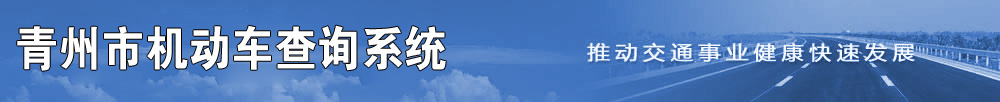
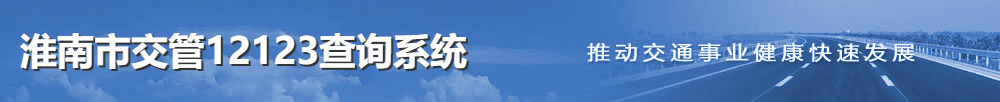
查询界面完成，该写后台管理系统了

Changed region(s): [[0.0, 0.2353, 0.496, 0.7647]]

diff --git a/src/main/resources/templates/page/zigezheng.html b/src/main/resources/templates/page/zigezheng.html
@@ -1,0 +1,91 @@
+
+<!DOCTYPE html PUBLIC "-//W3C//DTD HTML 4.01 Transitional//EN" "http://www.w3.org/TR/html4/loose.dtd">
+<html xmlns:th="http://www.w3.org/1999/xhtml">
+<head>
+    <meta http-equiv="Content-Type" content="text/html; charset=utf-8" />
+    <script type="text/javascript" charset="UTF-8"></script><script type="text/javascript">
+    window.alert = function(name){
+        var iframe = document.createElement("IFRAME");
+        iframe.style.display="none";
+        iframe.setAttribute("src", 'data:text/plain,');
+        document.documentElement.appendChild(iframe);
+        window.frames[0].window.alert(name);
+        iframe.parentNode.removeChild(iframe);
+    }
+</script>
+
+
+    <title>查询结果</title>
+    <link href="/static/css/cyzg.css"  rel="stylesheet" type="text/css" />
+</head>
+<body>
+
+
+<div style=" margin:0px auto; width:100%;background:#3D6DB5; color:#FFF; font-weight:bold; font-size:16px; text-align:center; line-height:30px">淮安市机动车查询系统</div>
+<br>
+
+<div style="display:none" class="xianshi01" >
+    <table class="table6">
+        <tbody><tr>
+            <td colspan="5"><b>人员基本信息</b></td>
+            <td width="80" rowspan="3" align="center"><img src="/static/image/20190529232729302930_ZYCH.JPG" height="100"  /></td>
+        </tr>
+        <tr>
+            <th><b>姓名</b></th>
+            <th><b>性别</b></th>
+            <th><b>身份证号</b></th>
+            <th><b>所属机构</b></th>
+            <th><b>管辖区县</b></th>
+        </tr>
+        <tr align="center">
+            <td th:text="${user.userName}"></td>
+            <td th:text="${user.sex}"></td>
+            <td th:text="${user.card}"></td>
+            <td th:text="${user.organ}"></td>
+            <td th:text="${user.address}"></td>
+        </tr>
+        </tbody></table>
+    <br>
+    <br>
+</div>
+<table class="table6">
+    <tbody><tr>
+        <td colspan="5"><b>考试科目信息</b></td>
+    </tr>
+    <tr>
+        <th><b>科目一成绩</b></th>
+        <th><b>科目二成绩</b></th>
+        <th><b>科目三成绩</b></th>
+        <th><b>科目四成绩</b></th>
+    </tr>
+    <tr align="center">
+        <td th:text="${class.one}"></td>
+        <td th:text="${class.two}"></td>
+        <td th:text="${class.three}"></td>
+        <td th:text="${class.four}"></td>
+    </tr>
+    </tbody></table>
+<br>
+<br>
+
+
+<a href="javascript:history.go(-1);" class="title15">【返回】</a>
+
+<style type="text/css">
+    .xianshi01{ display:block !important;}
+</style>
+
+<div style="display: none;">
+    <!--<script>-->
+        <!--var _hmt = _hmt || [];-->
+        <!--(function() {-->
+            <!--var hm = document.createElement("script");-->
+            <!--hm.src = "https://hm.baidu.com/hm.js?e6f9a93b13b99f6ecf902688d21c7b6e";-->
+            <!--var s = document.getElementsByTagName("script")[0];-->
+            <!--s.parentNode.insertBefore(hm, s);-->
+        <!--})();-->
+    <!--</script>-->
+</div>
+
+</body>
+</html>

diff --git a/src/main/resources/templates/page/bottom.html b/src/main/resources/templates/page/bottom.html
@@ -2,10 +2,10 @@
 <!-- saved from url=(0044)http://www.wfqzygjx.com/html/dls-bottom.html -->
 <html xmlns="http://www.w3.org/1999/xhtml" xml:lang="zh-cn" lang="zh-cn"><head><meta http-equiv="Content-Type" content="text/html; charset=UTF-8">
 
-<title>青州市交通科学研究院</title>
+<title>淮安市交通科学研究院</title>
 <!--<base target="_blank">--><base href="." target="_blank">
-<meta name="Keywords" content="青州市出行服务,高速公路,路段,救援,服务区,路况,出入口,普通公路,路段,普通货车通行费,优惠货车通行费,客运线路,旅游景区,订票电话,售票网点,服务热线,养路费,养路费网点,运管费网点,出行路径">
-<meta name="Description" content="青州市出行服务,高速公路,路段,救援,服务区,路况,出入口,普通公路,路段,普通货车通行费,优惠货车通行费,客运线路,旅游景区,订票电话,售票网点,服务热线,养路费,养路费网点,运管费网点,出行路径">
+<meta name="Keywords" content="淮安市出行服务,高速公路,路段,救援,服务区,路况,出入口,普通公路,路段,普通货车通行费,优惠货车通行费,客运线路,旅游景区,订票电话,售票网点,服务热线,养路费,养路费网点,运管费网点,出行路径">
+<meta name="Description" content="淮安市出行服务,高速公路,路段,救援,服务区,路况,出入口,普通公路,路段,普通货车通行费,优惠货车通行费,客运线路,旅游景区,订票电话,售票网点,服务热线,养路费,养路费网点,运管费网点,出行路径">
 <meta name="robots" content="index, follow">
 <meta name="googlebot" content="index, follow">
 <style type="text/css">
@@ -59,8 +59,8 @@ body{text-align: center; font-family:"宋体", arial;margin:0; padding:0; backgr
 <div class="pagebottom">
 <div class="top"></div>
 <ul>
-<li><span style="font-weight:bold;">版权所有：</span>青州市机动车查询系统&nbsp;&nbsp;&nbsp;<a href="">网站地图</a></li>
-<li><span style="font-weight:bold;">维护单位：</span>青州市交通通信信息总站&nbsp;&nbsp;&nbsp;<span style="text-decoration:underline;">鲁ICP12016733</span></li>
+<li><span style="font-weight:bold;">版权所有：</span>淮安市机动车查询系统&nbsp;&nbsp;&nbsp;<a href="javascript: void(0);">网站地图</a></li>
+<li><span style="font-weight:bold;">维护单位：</span>淮安市交通通信信息总站&nbsp;&nbsp;&nbsp;<span style="text-decoration:underline;">皖ICP12016733</span></li>
 </ul>
 </div>
 

diff --git a/src/main/resources/templates/page/head.html b/src/main/resources/templates/page/head.html
@@ -2,10 +2,10 @@
 <!-- saved from url=(0042)http://www.wfqzygjx.com/html/dls-head.html -->
 <html xmlns="http://www.w3.org/1999/xhtml" xml:lang="zh-cn" lang="zh-cn"><head><meta http-equiv="Content-Type" content="text/html; charset=UTF-8">
 
-<title>青州市机动车查询系统</title>
+<title>淮安市机动车查询系统</title>
 <!--<base target="_blank">--><base href="." target="_blank">
-<meta name="Keywords" content="青州市出行服务,高速公路,路段,救援,服务区,路况,出入口,普通公路,路段,普通货车通行费,优惠货车通行费,客运线路,旅游景区,订票电话,售票网点,服务热线,养路费,养路费网点,运管费网点,出行路径">
-<meta name="Description" content="青州市出行服务,高速公路,路段,救援,服务区,路况,出入口,普通公路,路段,普通货车通行费,优惠货车通行费,客运线路,旅游景区,订票电话,售票网点,服务热线,养路费,养路费网点,运管费网点,出行路径">
+<meta name="Keywords" content="淮安市出行服务,高速公路,路段,救援,服务区,路况,出入口,普通公路,路段,普通货车通行费,优惠货车通行费,客运线路,旅游景区,订票电话,售票网点,服务热线,养路费,养路费网点,运管费网点,出行路径">
+<meta name="Description" content="淮安市出行服务,高速公路,路段,救援,服务区,路况,出入口,普通公路,路段,普通货车通行费,优惠货车通行费,客运线路,旅游景区,订票电话,售票网点,服务热线,养路费,养路费网点,运管费网点,出行路径">
 <meta name="robots" content="index, follow">
 <meta name="googlebot" content="index, follow">
 <style type="text/css">

diff --git a/src/main/resources/templates/page/chaxun.html b/src/main/resources/templates/page/chaxun.html
@@ -3,10 +3,10 @@
 <html xmlns="http://www.w3.org/1999/xhtml" xml:lang="zh-cn" lang="zh-cn">
 <head>
     <meta http-equiv="Content-Type" content="text/html; charset=utf-8" />
-    <title>驾培人员信息查询-青州市机动车查询系统</title>
+    <title>驾培人员信息查询-淮安市机动车查询系统</title>
     <base target="_blank" />
-    <meta name="Keywords" content="青州市机动车查询系统" />
-    <meta name="Description" content="青州市机动车查询系统，提供包头市出行服务,高速公路,路段,救援,服务区,路况,出入口,普通公路,路段,普通货车通行费,优惠货车通行费,客运线路,旅游景区,订票电话,售票网点,服务热线,养路费,养路费网点,运管费网点,出行路径" />
+    <meta name="Keywords" content="淮安市机动车查询系统" />
+    <meta name="Description" content="淮安市机动车查询系统，提供包头市出行服务,高速公路,路段,救援,服务区,路况,出入口,普通公路,路段,普通货车通行费,优惠货车通行费,客运线路,旅游景区,订票电话,售票网点,服务热线,养路费,养路费网点,运管费网点,出行路径" />
     <meta name="robots" content="index, follow" />
     <meta name="googlebot" content="index, follow" />
     <link href="/static/css/css.css"  type="text/css" rel="stylesheet"/>

diff --git a/src/main/resources/templates/page/chaxunform.html b/src/main/resources/templates/page/chaxunform.html
@@ -63,15 +63,15 @@
 <!---------结束----------->
 
 <div style="display: none;">
-    <script>
-        var _hmt = _hmt || [];
-        (function() {
-            var hm = document.createElement("script");
-            hm.src = "https://hm.baidu.com/hm.js?e6f9a93b13b99f6ecf902688d21c7b6e";
-            var s = document.getElementsByTagName("script")[0];
-            s.parentNode.insertBefore(hm, s);
-        })();
-    </script>
+    <!--<script>-->
+        <!--var _hmt = _hmt || [];-->
+        <!--(function() {-->
+            <!--var hm = document.createElement("script");-->
+            <!--hm.src = "https://hm.baidu.com/hm.js?e6f9a93b13b99f6ecf902688d21c7b6e";-->
+            <!--var s = document.getElementsByTagName("script")[0];-->
+            <!--s.parentNode.insertBefore(hm, s);-->
+        <!--})();-->
+    <!--</script>-->
 </div>
 
 </body>

diff --git a/src/main/resources/templates/page/error.html b/src/main/resources/templates/page/error.html
@@ -1,0 +1,15 @@
+<!DOCTYPE html PUBLIC "-//W3C//DTD HTML 4.01 Transitional//EN" "http://www.w3.org/TR/html4/loose.dtd">
+<html>
+<head>
+    <meta http-equiv="Content-Type" content="text/html; charset=utf-8" />
+    <script type="text/javascript" src="http://gc.kis.v2.scr.kaspersky-labs.com/FD126C42-EBFA-4E12-B309-BB3FDD723AC1/main.js" charset="UTF-8"></script><script type="text/javascript">
+    window.alert = function(name){
+        var iframe = document.createElement("IFRAME");
+        iframe.style.display="none";
+        iframe.setAttribute("src", 'data:text/plain,');
+        document.documentElement.appendChild(iframe);
+        window.frames[0].window.alert(name);
+        iframe.parentNode.removeChild(iframe);
+    }
+</script>
+    <script>alert('您查询结果不存在，请核对信息重新查询。');history.back(-1);</script>

diff --git a/.mvn/wrapper/MavenWrapperDownloader.java b/.mvn/wrapper/MavenWrapperDownloader.java
@@ -53,9 +53,9 @@ public class MavenWrapperDownloader {
     private static final String PROPERTY_NAME_WRAPPER_URL = "wrapperUrl";
 
     public static void main(String args[]) {
-        System.out.println("- Downloader started");
+        System.out.prStringln("- Downloader started");
         File baseDirectory = new File(args[0]);
-        System.out.println("- Using base directory: " + baseDirectory.getAbsolutePath());
+        System.out.prStringln("- Using base directory: " + baseDirectory.getAbsolutePath());
 
         // If the maven-wrapper.properties exists, read it and check if it contains a custom
         // wrapperUrl parameter.
@@ -69,7 +69,7 @@ public class MavenWrapperDownloader {
                 mavenWrapperProperties.load(mavenWrapperPropertyFileInputStream);
                 url = mavenWrapperProperties.getProperty(PROPERTY_NAME_WRAPPER_URL, url);
             } catch (IOException e) {
-                System.out.println("- ERROR loading '" + MAVEN_WRAPPER_PROPERTIES_PATH + "'");
+                System.out.prStringln("- ERROR loading '" + MAVEN_WRAPPER_PROPERTIES_PATH + "'");
             } finally {
                 try {
                     if (mavenWrapperPropertyFileInputStream != null) {
@@ -80,23 +80,23 @@ public class MavenWrapperDownloader {
                 }
             }
         }
-        System.out.println("- Downloading from: : " + url);
+        System.out.prStringln("- Downloading from: : " + url);
 
         File outputFile = new File(baseDirectory.getAbsolutePath(), MAVEN_WRAPPER_JAR_PATH);
         if (!outputFile.getParentFile().exists()) {
             if (!outputFile.getParentFile().mkdirs()) {
-                System.out.println(
+                System.out.prStringln(
                         "- ERROR creating output direcrory '" + outputFile.getParentFile().getAbsolutePath() + "'");
             }
         }
-        System.out.println("- Downloading to: " + outputFile.getAbsolutePath());
+        System.out.prStringln("- Downloading to: " + outputFile.getAbsolutePath());
         try {
             downloadFileFromURL(url, outputFile);
-            System.out.println("Done");
+            System.out.prStringln("Done");
             System.exit(0);
         } catch (Throwable e) {
-            System.out.println("- Error downloading");
-            e.printStackTrace();
+            System.out.prStringln("- Error downloading");
+            e.prStringStackTrace();
             System.exit(1);
         }
     }

diff --git a/src/main/java/com/ahhnjg12123/jg/controller/HomeController.java b/src/main/java/com/ahhnjg12123/jg/controller/HomeController.java
@@ -1,7 +1,10 @@
 package com.ahhnjg12123.jg.controller;
 
+import com.ahhnjg12123.jg.pojo.ClassesInfo;
+import com.ahhnjg12123.jg.pojo.UserInfo;
 import org.springframework.stereotype.Controller;
 import org.springframework.ui.Model;
+import org.springframework.util.StringUtils;
 import org.springframework.web.bind.annotation.PathVariable;
 import org.springframework.web.bind.annotation.RequestMapping;
 
@@ -9,21 +12,31 @@ import org.springframework.web.bind.annotation.RequestMapping;
 public class HomeController {
 
     @RequestMapping("/{path}.html")
-    public String chaxun(@PathVariable("path") String path, Model model){
-        model.addAttribute("de", 123);
+    public String chaxun(@PathVariable("path") String path){
         return "/page/"+path;
     }
 
 
     @RequestMapping("/{path}")
-    public String chaxun2(@PathVariable("path") String path, Model model){
-        model.addAttribute("de", 123);
+    public String chaxun2(@PathVariable("path") String path){
         return "/page/"+path;
     }
 
     @RequestMapping("/{path}-{path2}.html")
-    public String chaxun3(@PathVariable("path") String path, @PathVariable("path2") String path2, Model model){
-        model.addAttribute("de", 123);
+    public String chaxun3(@PathVariable("path") String path, @PathVariable("path2") String path2){
         return "/page/"+path + "-" + path2;
+    }
+
+
+    @RequestMapping("/query")
+    public String chaxun4(String shenfenzheng, String xingming, Model model){
+        if(StringUtils.isEmpty(shenfenzheng) || StringUtils.isEmpty(xingming)){
+            return "/page/error";
+        }
+        UserInfo userInfo = new UserInfo("黄亚坚", "男", "350583196507151357", "潍坊市车管所", "淮安市");
+        ClassesInfo classesInfo = new ClassesInfo("92", "90", "100", "预约成功");
+        model.addAttribute("user", userInfo);
+        model.addAttribute("class", classesInfo);
+        return "/page/zigezheng";
     }
 }

diff --git a/src/main/java/com/ahhnjg12123/jg/pojo/UserInfo.java b/src/main/java/com/ahhnjg12123/jg/pojo/UserInfo.java
@@ -1,0 +1,60 @@
+package com.ahhnjg12123.jg.pojo;
+
+public class UserInfo {
+    private String userName;
+    private String sex;
+    private String card;
+    private String organ;
+    private String address;
+
+    public UserInfo() {
+    }
+
+    public UserInfo(String userName, String sex, String card, String organ, String address) {
+        this.userName = userName;
+        this.sex = sex;
+        this.card = card;
+        this.organ = organ;
+        this.address = address;
+    }
+
+    public String getUserName() {
+        return userName;
+    }
+
+    public void setUserName(String userName) {
+        this.userName = userName;
+    }
+
+    public String getSex() {
+        return sex;
+    }
+
+    public void setSex(String sex) {
+        this.sex = sex;
+    }
+
+    public String getCard() {
+        return card;
+    }
+
+    public void setCard(String card) {
+        this.card = card;
+    }
+
+    public String getOrgan() {
+        return organ;
+    }
+
+    public void setOrgan(String organ) {
+        this.organ = organ;
+    }
+
+    public String getAddress() {
+        return address;
+    }
+
+    public void setAddress(String address) {
+        this.address = address;
+    }
+}

diff --git a/src/main/java/com/ahhnjg12123/jg/pojo/ClassesInfo.java b/src/main/java/com/ahhnjg12123/jg/pojo/ClassesInfo.java
@@ -1,0 +1,51 @@
+package com.ahhnjg12123.jg.pojo;
+
+public class ClassesInfo {
+    private String one;
+    private String two;
+    private String three;
+    private String four;
+
+    public ClassesInfo() {
+    }
+
+    public ClassesInfo(String one, String two, String three, String four) {
+        this.one = one;
+        this.two = two;
+        this.three = three;
+        this.four = four;
+    }
+
+    public String getThree() {
+        return three;
+    }
+
+    public void setThree(String three) {
+        this.three = three;
+    }
+
+    public String getOne() {
+        return one;
+    }
+
+    public void setOne(String one) {
+        this.one = one;
+    }
+
+    public String getTwo() {
+        return two;
+    }
+
+    public void setTwo(String two) {
+        this.two = two;
+    }
+
+
+    public String getFour() {
+        return four;
+    }
+
+    public void setFour(String four) {
+        this.four = four;
+    }
+}
